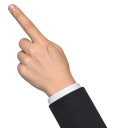
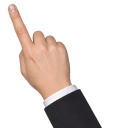
A hand that reads as pointing, and a sleeve slab that cannot quietly run short
The first arm's hand was photographed turned away from the camera: the
knuckles led, the finger crossed back over them, and at the size a pointer is
actually drawn — a hundred and forty pixels on a two thousand pixel sprite —
it read as a fist with something wrong with it rather than as a hand
pointing. This one is square to the camera with the finger straight up, and
the gesture survives the reduction.

Half the resolution with it, 724×2172 against 1448×4344, which is the one
thing worth watching: the hand's longer edge is 491 rows and comes down to
140, so the sprite is a 3.5× reduction where it was 6.9×. Still a reduction,
and the sixteen samples an output pixel already averages span it.

`SLEEVE_SLAB` is 1200 rows and the file is now 2172 of them, so the slab
starts at 972 against a cuff at 510 — 462 rows of clearance where there were
2122. It still holds, but the margin is no longer so large that nobody need
think about it, and the constant is a length rather than a share of the file
precisely because what it has to clear is a forearm. So `anatomy` now checks
it and throws, naming both numbers and what to change.

Refused rather than clamped, because clamping would still produce a sprite:
a slab reaching up into the forearm repeats a wrist down the length of the
arm every time it comes round, which is the one failure this path exists to
avoid and the only one nothing else would report.

diff --git a/.changeset/clearer-pointing-hand.md b/.changeset/clearer-pointing-hand.md
@@ -1,0 +1,7 @@
+---
+"@prequel/desktop": patch
+---
+
+<!-- highlight: A clearer hand on the pointing arm -->
+
+The pointing arm has a new hand, with the finger straight up and easier to read.
